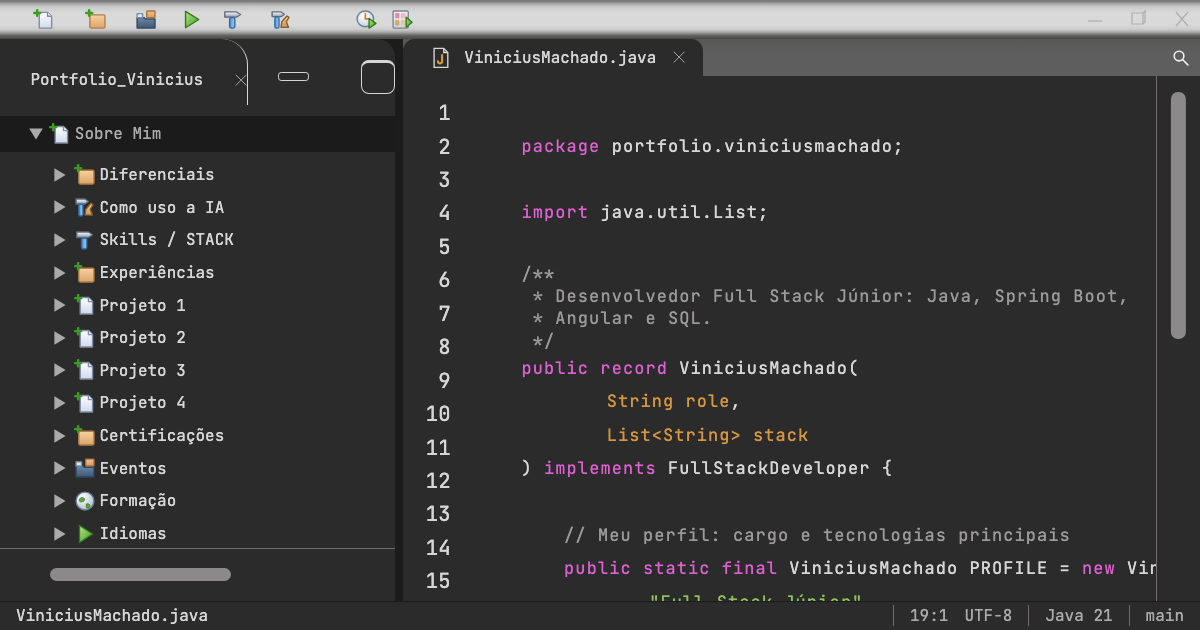
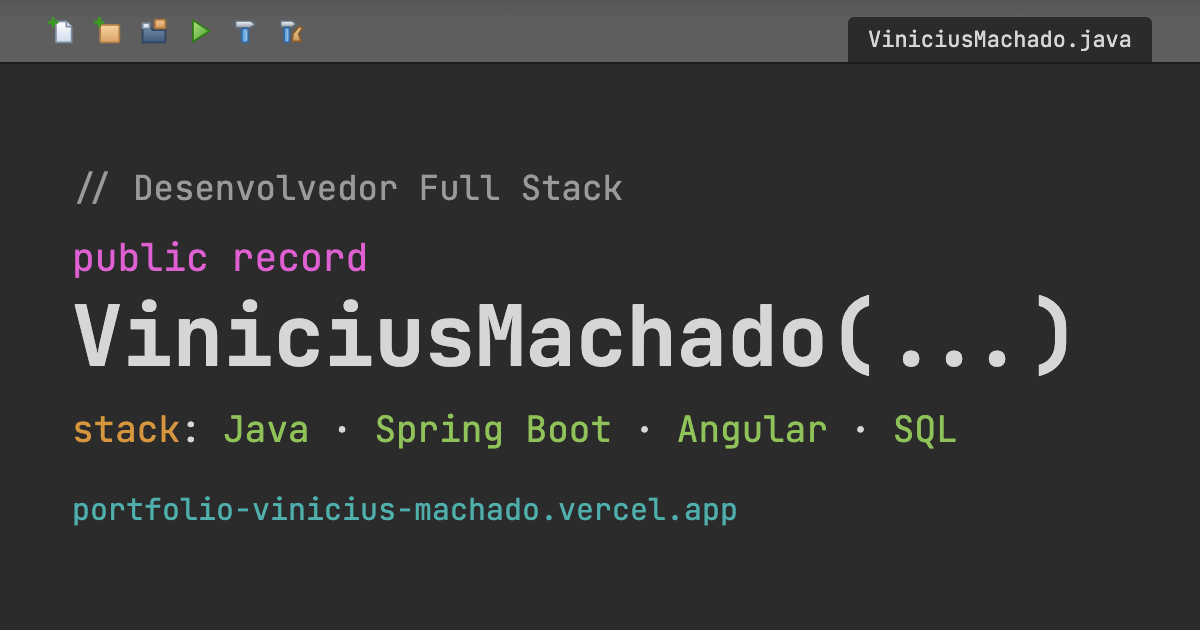
fix: troca a imagem de compartilhamento por um cartão legível em miniatura

diff --git a/scripts/compartilhamento/cartao.html b/scripts/compartilhamento/cartao.html
@@ -1,0 +1,136 @@
+<!doctype html>
+<html lang="pt-BR">
+  <head>
+    <meta charset="utf-8" />
+    <title>Cartão de compartilhamento</title>
+    <style>
+      /* Espelha os tokens de src/styles/_tokens.scss: este cartão não passa pelo build do Angular. */
+      @font-face {
+        font-family: 'JetBrains Mono';
+        font-weight: 400;
+        src: url('../../node_modules/@fontsource/jetbrains-mono/files/jetbrains-mono-latin-400-normal.woff2')
+          format('woff2');
+      }
+      @font-face {
+        font-family: 'JetBrains Mono';
+        font-weight: 700;
+        src: url('../../node_modules/@fontsource/jetbrains-mono/files/jetbrains-mono-latin-700-normal.woff2')
+          format('woff2');
+      }
+      :root {
+        --cor-fundo-pagina: #1c1c1c;
+        --cor-editor: #2b2b2b;
+        --cor-faixa-abas: #575757;
+        --cor-aba-inativa: #5e5e5e;
+        --cor-texto: #d6d6d6;
+        --cor-borda: #1b1b1b;
+        --cor-sintaxe-palavra-chave: #de60d2;
+        --cor-sintaxe-campo: #d5963e;
+        --cor-sintaxe-literal: #8fc258;
+        --cor-sintaxe-valor: #4fafac;
+        --cor-sintaxe-comentario: #9b9999;
+      }
+      * {
+        box-sizing: border-box;
+        margin: 0;
+      }
+      body {
+        inline-size: 1200px;
+        block-size: 630px;
+        overflow: hidden;
+        display: flex;
+        flex-direction: column;
+        background: var(--cor-fundo-pagina);
+        color: var(--cor-texto);
+        font-family: 'JetBrains Mono', monospace;
+      }
+      .barra {
+        flex: none;
+        display: flex;
+        align-items: center;
+        gap: 18px;
+        block-size: 64px;
+        padding-inline: 48px;
+        background: linear-gradient(to bottom, var(--cor-faixa-abas), var(--cor-aba-inativa) 35%);
+        border-block-end: 2px solid var(--cor-borda);
+      }
+      .barra img {
+        inline-size: 28px;
+        block-size: 28px;
+      }
+      .aba {
+        margin-inline-start: auto;
+        padding: 8px 20px;
+        border-radius: 6px 6px 0 0;
+        background: var(--cor-editor);
+        font-size: 22px;
+        align-self: flex-end;
+      }
+      .editor {
+        flex: 1;
+        display: flex;
+        flex-direction: column;
+        justify-content: center;
+        gap: 22px;
+        padding: 0 72px;
+        background: var(--cor-editor);
+        white-space: nowrap;
+      }
+      .comentario {
+        color: var(--cor-sintaxe-comentario);
+        font-size: 34px;
+      }
+      .nome {
+        font-size: 84px;
+        font-weight: 700;
+        line-height: 1.1;
+      }
+      .declaracao {
+        font-size: 38px;
+        margin-block-end: -14px;
+      }
+      .kw {
+        color: var(--cor-sintaxe-palavra-chave);
+      }
+      .nome .tipo {
+        color: var(--cor-texto);
+      }
+      .stack {
+        font-size: 36px;
+      }
+      .campo {
+        color: var(--cor-sintaxe-campo);
+      }
+      .lit {
+        color: var(--cor-sintaxe-literal);
+      }
+      .url {
+        color: var(--cor-sintaxe-valor);
+        font-size: 30px;
+        margin-block-start: 14px;
+      }
+    </style>
+  </head>
+  <body>
+    <div class="barra">
+      <img src="../../public/icones/arquivo.svg" alt="" />
+      <img src="../../public/icones/pasta.svg" alt="" />
+      <img src="../../public/icones/projeto.svg" alt="" />
+      <img src="../../public/icones/executar.svg" alt="" />
+      <img src="../../public/icones/ferramenta.svg" alt="" />
+      <img src="../../public/icones/ia.svg" alt="" />
+      <span class="aba">ViniciusMachado.java</span>
+    </div>
+    <main class="editor">
+      <div class="comentario">// Desenvolvedor Full Stack</div>
+      <div class="declaracao"><span class="kw">public record</span></div>
+      <div class="nome">ViniciusMachado<span class="tipo">(...)</span></div>
+      <div class="stack">
+        <span class="campo">stack</span>: <span class="lit">Java</span> ·
+        <span class="lit">Spring Boot</span> · <span class="lit">Angular</span> ·
+        <span class="lit">SQL</span>
+      </div>
+      <div class="url">portfolio-vinicius-machado.vercel.app</div>
+    </main>
+  </body>
+</html>
